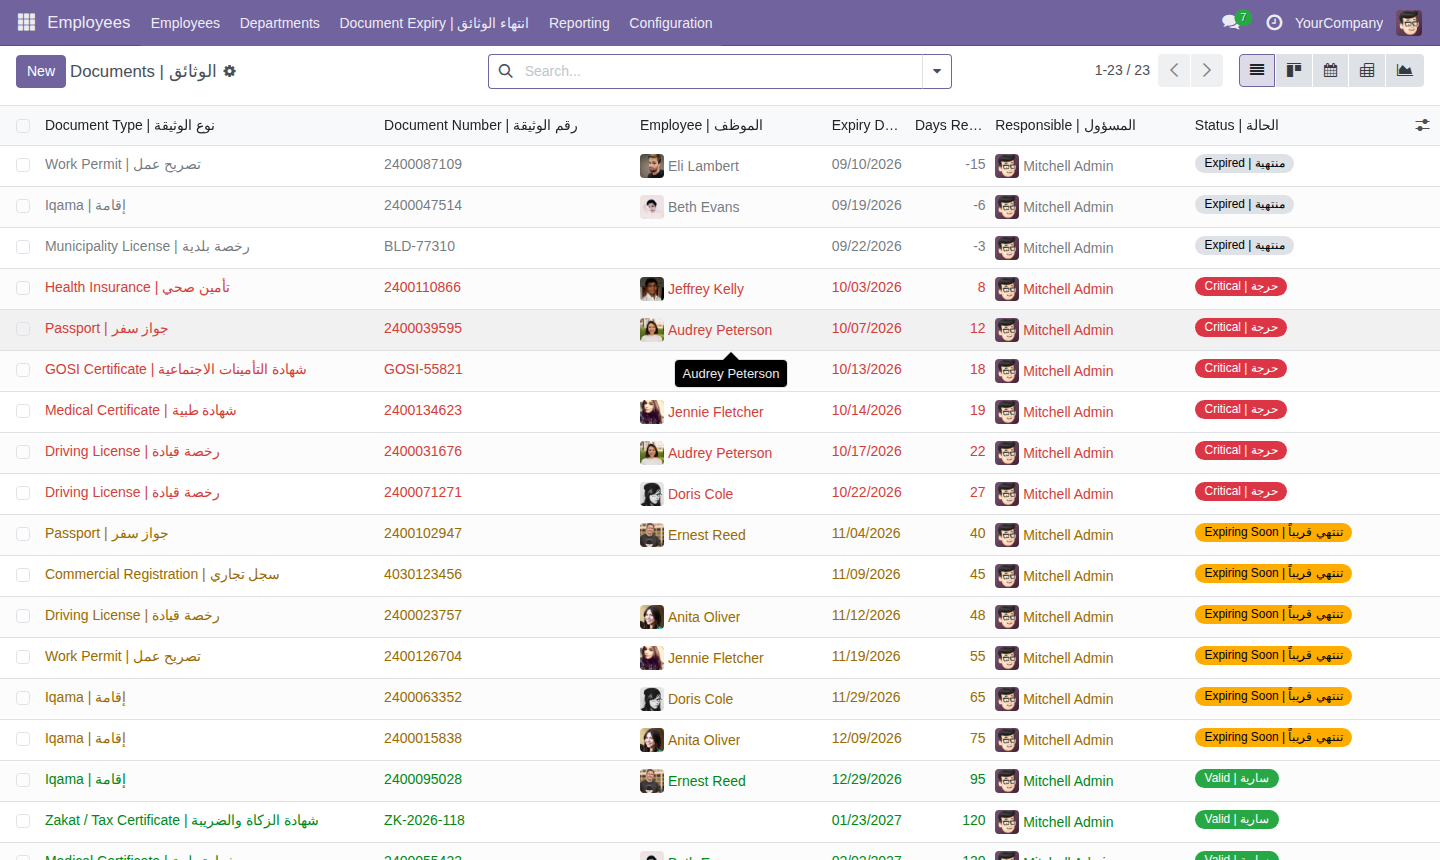
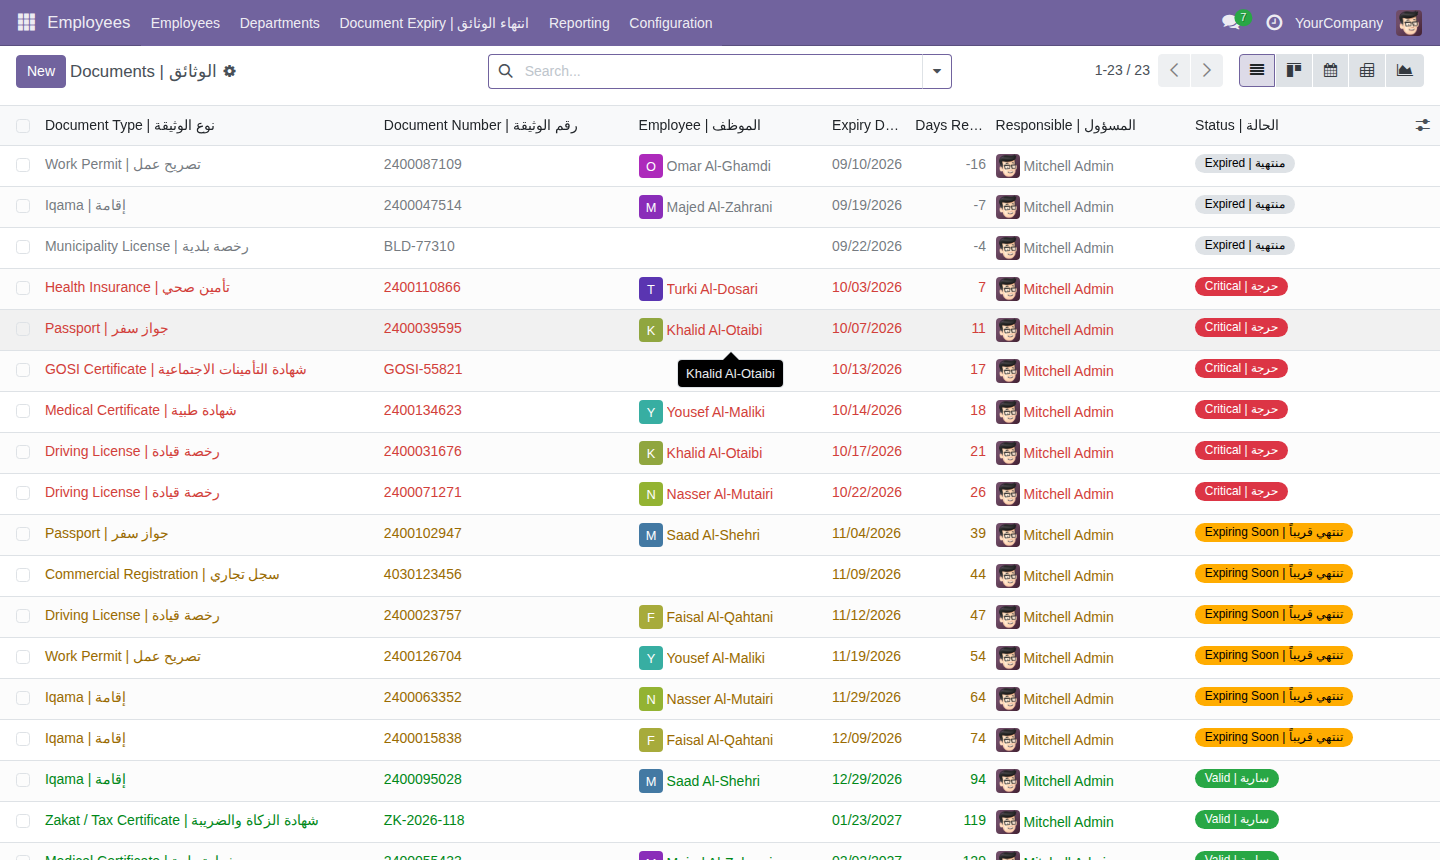
Replace store screenshots: no personal photos, neutral demo data
Claude-Session: https://claude.ai/code/session_011qeB6U3416p5miZoPS1FVr

diff --git a/hr_document_expiry_notifier/__manifest__.py b/hr_document_expiry_notifier/__manifest__.py
@@ -1,7 +1,7 @@
 # -*- coding: utf-8 -*-
 {
     'name': 'Document & License Expiry Notifier | منبّه انتهاء الوثائق',
-    'version': '18.0.1.0.1',
+    'version': '18.0.1.0.2',
     'category': 'Human Resources',
     'summary': 'Track Iqama, Passport, Work Permit, Insurance & Company Licenses — auto email alerts at 90/60/30 days | تتبع انتهاء الإقامات والجوازات والتراخيص مع تنبيهات تلقائية',
     'description': """
